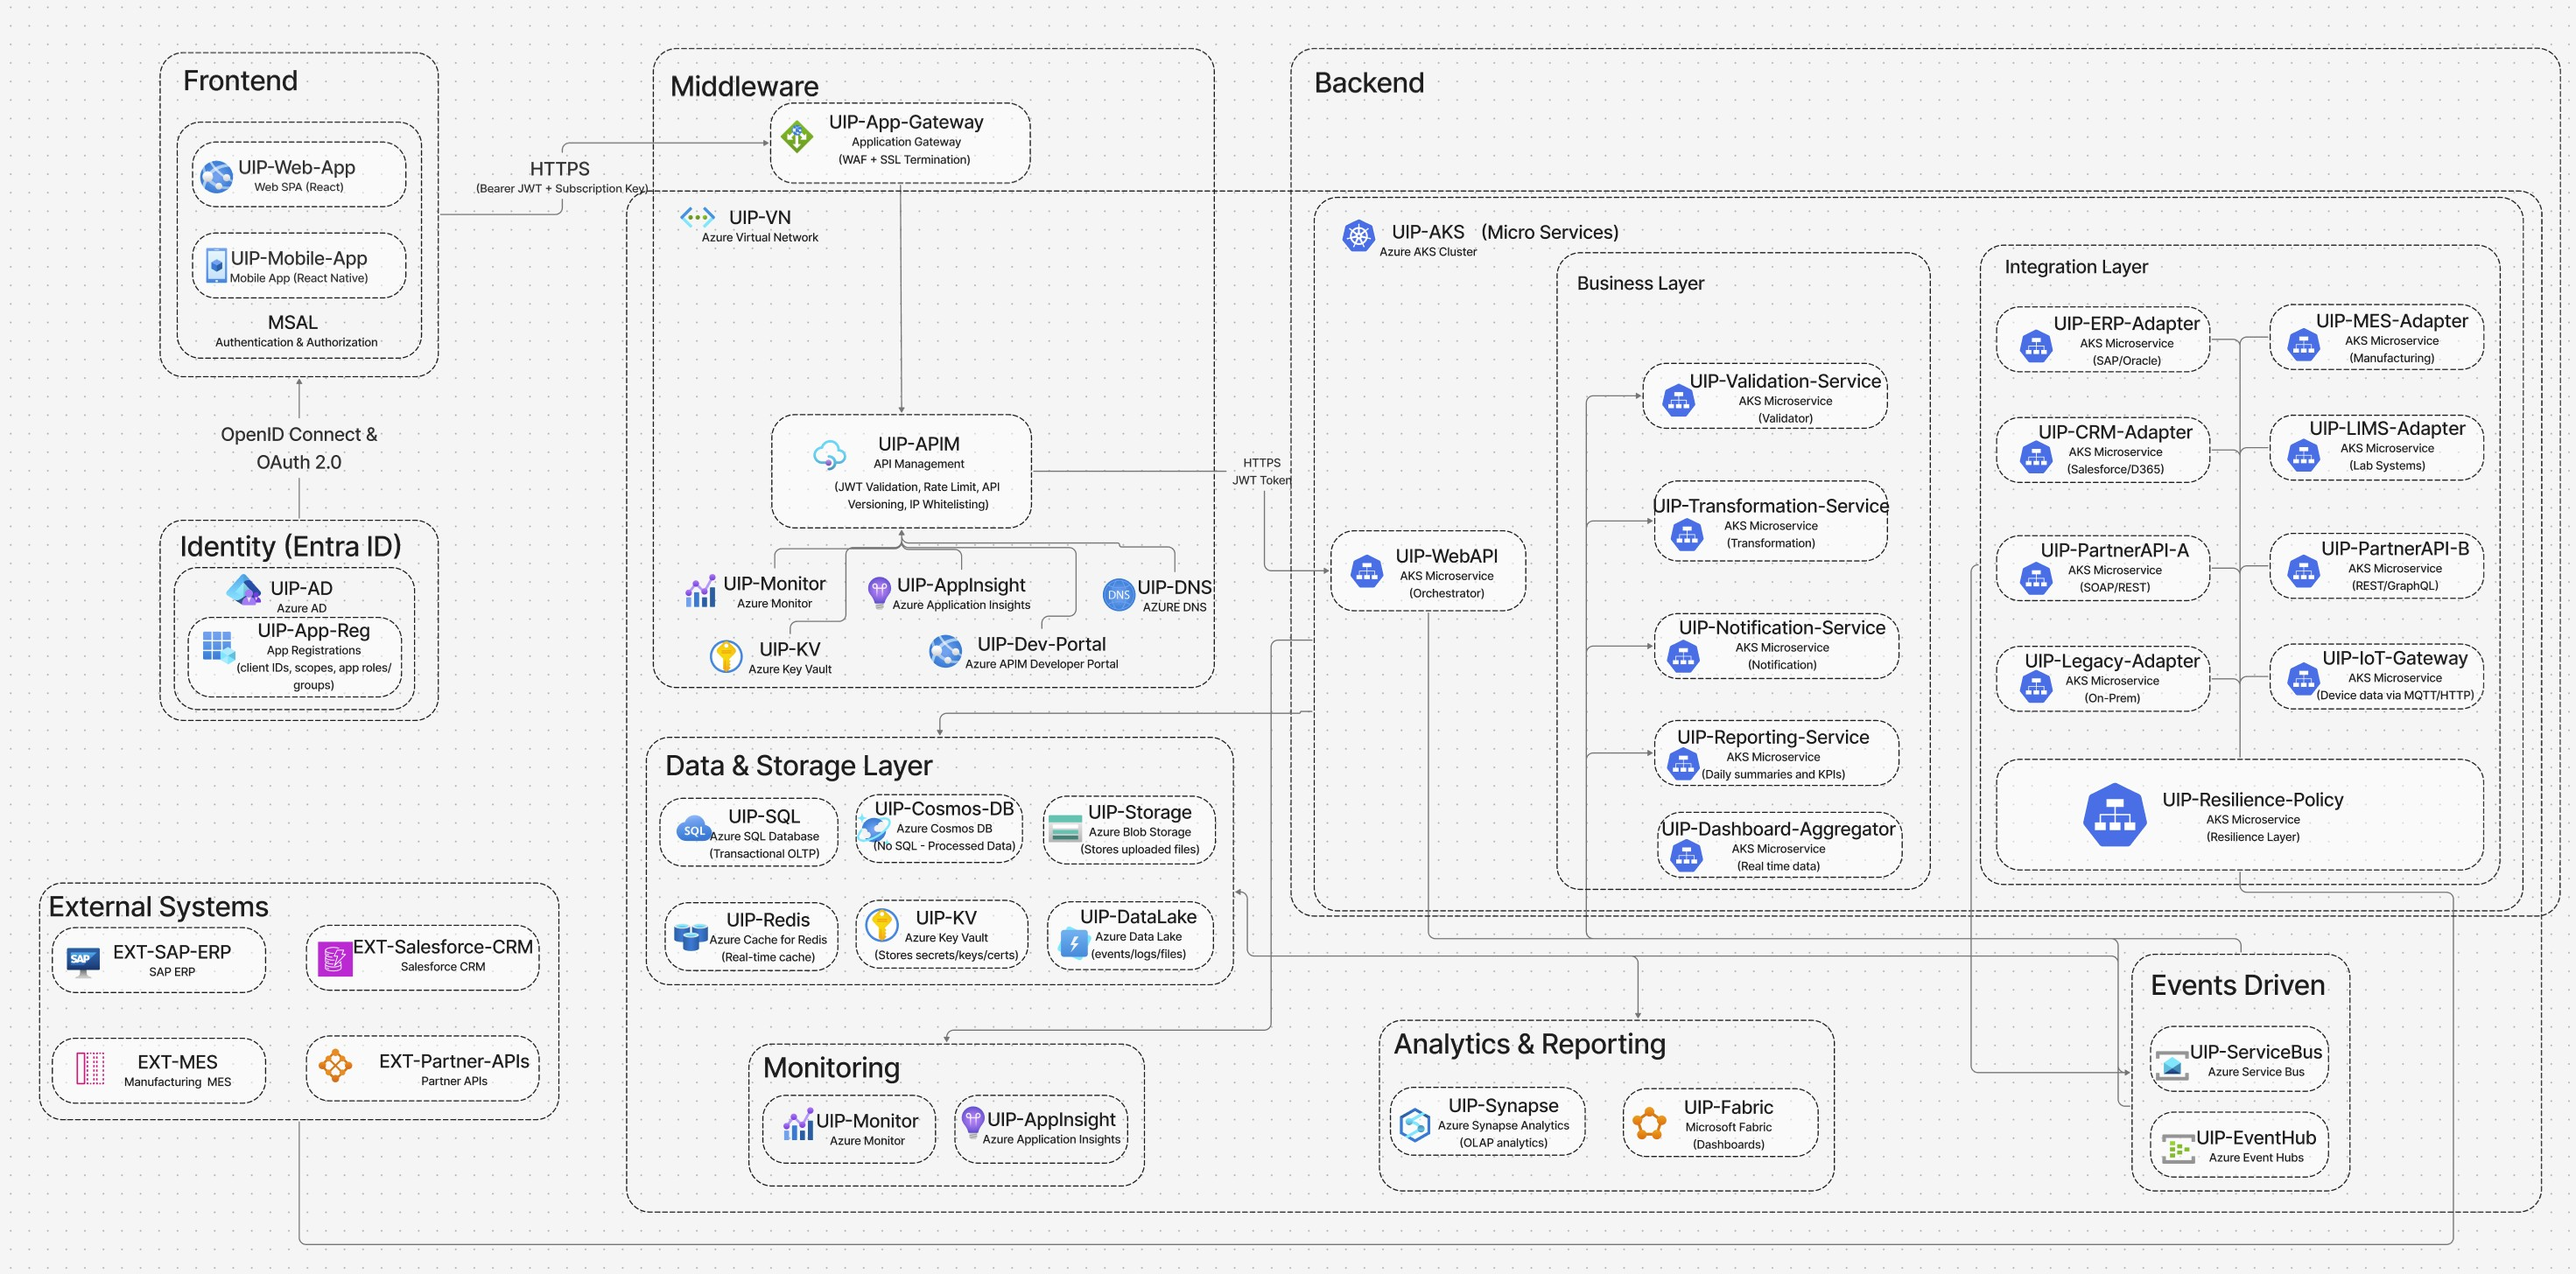
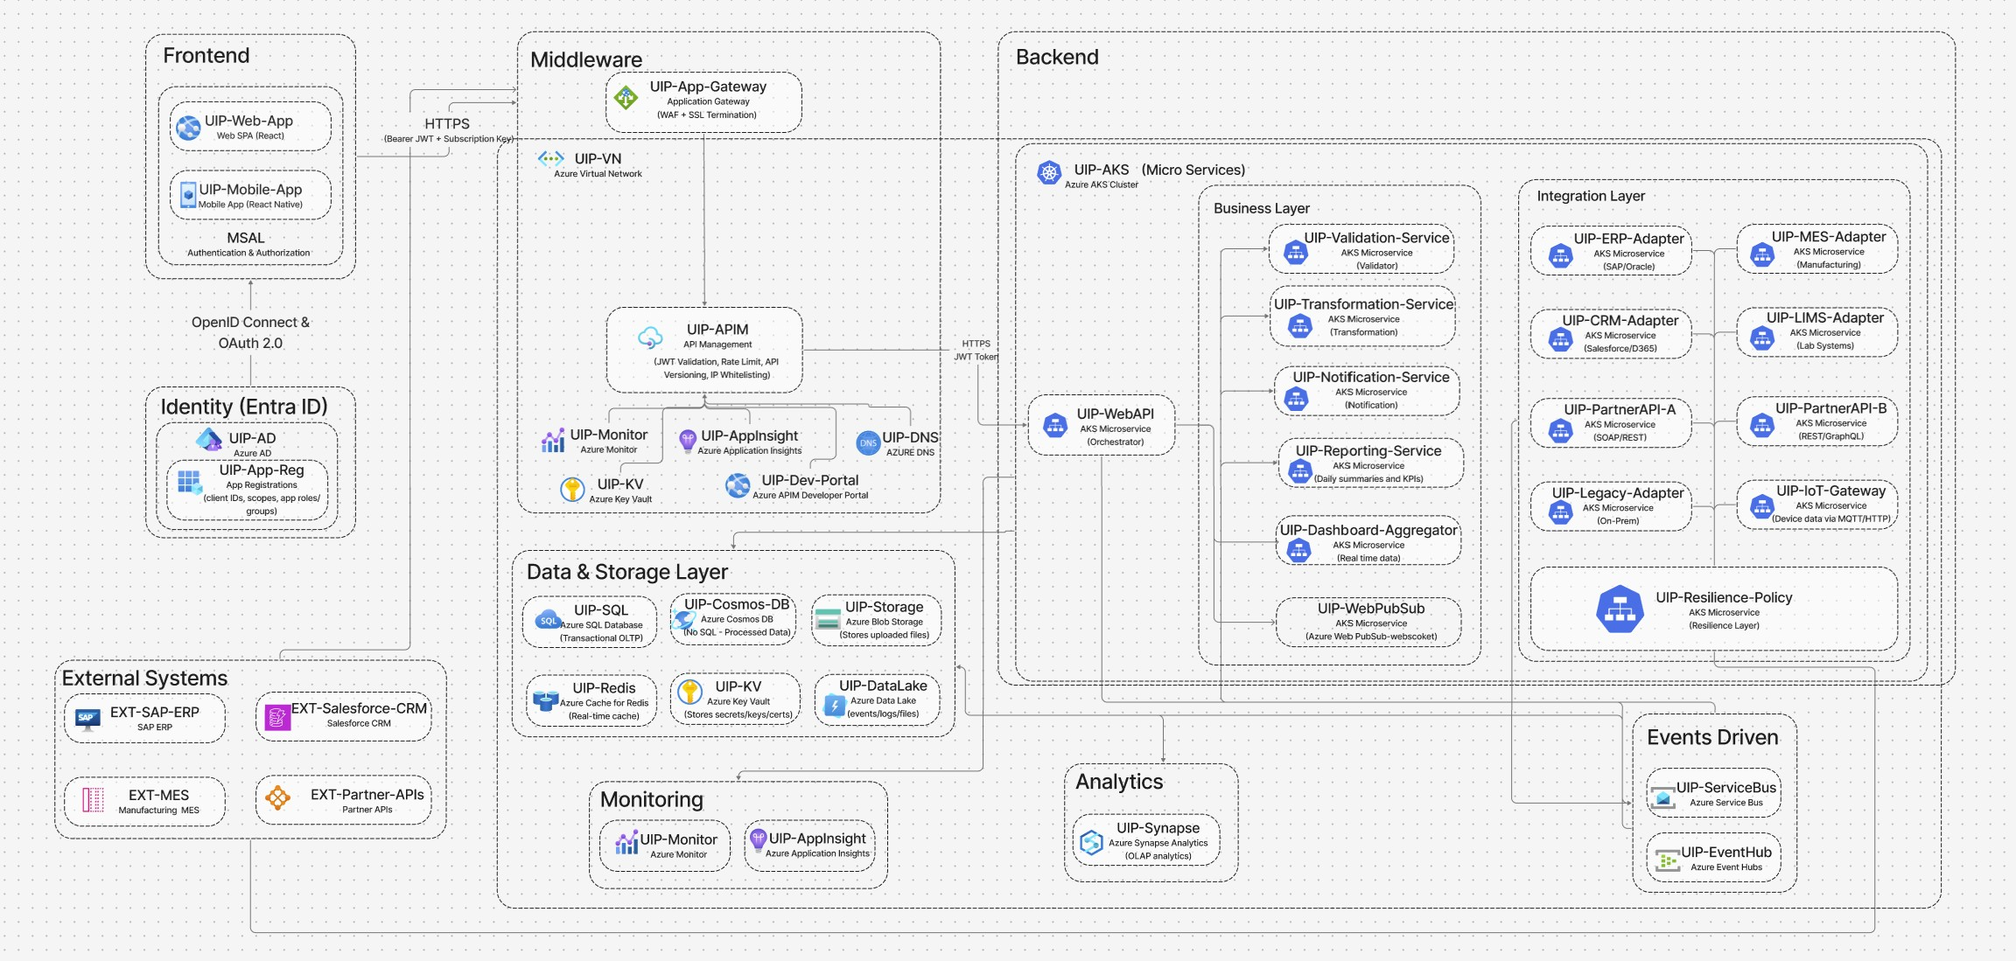
Refactor architecture documentation to enhance clarity and detail
- Updated `ARCHITECTURE_DEEP_DIVE.md` to improve flow descriptions and add real-time feedback scenarios.
- Changed color coding in sequence diagrams for better visual distinction.
- Revised `README.md` to emphasize architectural principles and reorganize content for better accessibility.
- Updated `uip-architecture-design.jpg` to reflect recent changes in architecture.

diff --git a/DELIVERABLES.md b/DELIVERABLES.md
@@ -1,0 +1,51 @@
+# UIP Architecture Deliverables
+
+## 1. Architectural Diagram
+![UIP Architecture Design](uip-architecture-design.jpg)
+
+## 2. Architecture Design Explanation
+
+### Overview
+The Unified Integration Platform (UIP) is architected as a cloud-native solution on **Microsoft Azure**, utilizing a microservices architecture hosted on **Azure Kubernetes Service (AKS)**. This design provides the necessary agility, scalability, and isolation to serve both Web and Mobile frontends while robustly integrating with 10–15 diverse external enterprise systems.
+
+### Key Design Decisions
+
+1.  **Microservices on AKS**: We selected AKS as the core compute platform. This allows us to containerize individual integration adapters and business services, enabling granular scaling. For instance, the `UIP-Transformation-Service` can be scaled up independently during high-volume file ingestion without affecting the `UIP-CRM-Adapter`.
+2.  **Gateway Offloading**: By placing **Azure Application Gateway** (WAF) and **Azure API Management (APIM)** in front of the cluster, we offload cross-cutting concerns like SSL termination, rate limiting, and authentication validation. This keeps the backend services focused on business logic.
+3.  **Polyglot Persistence**: The architecture employs the "right store for the right job":
+    *   **Azure SQL**: For relational, transactional business data requiring strict ACID compliance.
+    *   **Cosmos DB**: For flexible, high-volume storage of processed integration data and audit logs.
+    *   **Redis**: For high-speed caching to support low-latency dashboard reads.
+    *   **Data Lake**: For cost-effective archival of raw events and files.
+
+### Addressing Core Requirements
+
+#### Third-Party System Integration & Resilience
+Integrating with 10–15 external systems (SAP, Salesforce, MES, Partners) creates a high risk of cascading failures. We mitigate this through:
+*   **Adapter Pattern**: Dedicated microservices (e.g., `UIP-ERP-Adapter`) encapsulate the specific logic, protocols (SOAP, REST, MQTT), and authentication for each external system.
+*   **Resilience Policies**: A centralized `UIP-Resilience-Policy` mechanism enforces **Circuit Breakers** and **Retry with Exponential Backoff**. If "Partner-API-A" becomes unresponsive, its circuit breaker opens, failing fast locally rather than hanging threads and exhausting connection pools.
+*   **Asynchronous Buffering**: **Azure Service Bus** acts as a shock absorber. Bursts of integration requests are queued and processed by consumers at a sustainable rate, protecting downstream legacy systems from being overwhelmed.
+
+#### Scalability, Security, and Availability
+*   **Scalability**: The architecture scales on multiple dimensions. **AKS** handles compute scaling via Horizontal Pod Autoscaling (HPA). **Event Hubs** partitions data streams to handle massive throughput for ingestion. **Cosmos DB** provides practically unlimited storage throughput.
+*   **Security (Zero Trust)**:
+    *   **Identity**: **Entra ID (Azure AD)** is the single source of truth, using OIDC/OAuth 2.0 for all user and service-to-service authentication.
+    *   **Secrets**: No sensitive data is stored in code. **Azure Key Vault** manages connection strings and API keys, injected into pods at runtime.
+    *   **Network**: **Azure VNet** isolates backend resources. Public access is strictly controlled via the Application Gateway, with WAF protecting against OWASP Top 10 vulnerabilities.
+*   **Availability**: High availability is achieved by deploying AKS and critical data services (SQL, Cosmos) across **Azure Availability Zones**. Stateless services allow for instant recovery on healthy nodes if a failure occurs.
+
+#### Real-Time vs. Daily Reporting
+*   **Real-Time Dashboard**: We avoid database polling. The `UIP-WebPubSub` service maintains WebSocket connections to clients. Updates flow from the `UIP-Dashboard-Aggregator` (reading from Redis/Event Hubs) directly to the frontend, ensuring live visibility into integration status.
+*   **Daily Reporting**: We employ a **CQRS-like pattern** where reporting is separated from operations. Operational data is replicated to **Azure Data Lake** and **Synapse Analytics**. Complex queries for daily summaries and KPIs run against this dedicated analytics layer, ensuring that heavy reporting jobs never degrade the performance of the live transactional system.
+
+### Major Trade-offs Considered
+
+**1. Microservices Complexity vs. Monolithic Simplicity**
+*   *Decision*: We chose a distributed microservices architecture over a simpler monolithic App Service.
+*   *Trade-off*: This significantly increases operational complexity (requires distributed tracing, container management, more complex CI/CD).
+*   *Justification*: The requirement to integrate with 15+ external systems with different failure modes and scaling profiles made a monolith too risky. A memory leak in a legacy XML parser for one partner integration shouldn't crash the entire user dashboard. Isolation was prioritized over simplicity.
+
+**2. Eventual Consistency for Dashboards**
+*   *Decision*: The dashboard data flow relies on asynchronous events (Event Hubs -> Aggregator -> PubSub).
+*   *Trade-off*: The dashboard may lag behind the source of truth by a few seconds (eventual consistency) rather than being instantly consistent.
+*   *Justification*: Achieving strict strong consistency across distributed systems would require distributed transactions (2PC), which kill performance and availability. For an operational dashboard, "near real-time" is an acceptable trade-off for high system throughput and responsiveness.

diff --git a/ARCHITECTURE_DEEP_DIVE.md b/ARCHITECTURE_DEEP_DIVE.md
@@ -133,7 +133,7 @@ sequenceDiagram
 
     Client->>WAF: HTTPS Request
     
-    rect rgb(255, 230, 230)
+    rect rgb(0, 0, 0)
         Note right of WAF: Security Edge
         WAF->>WAF: Decrypt & Inspect (OWASP)
         alt Malicious Payload
@@ -143,7 +143,7 @@ sequenceDiagram
 
     WAF->>APIM: Forward Request
     
-    rect rgb(230, 240, 255)
+    rect rgb(0, 0, 0)
         Note right of APIM: Policy Execution
         APIM->>APIM: Check Subscription Key
         APIM->>APIM: Validate JWT
@@ -543,25 +543,42 @@ We treat operations as a software problem, using data to drive decisions.
 
 ## 13. End-to-End Request Flow (Consolidated)
 
-To visualize how all layers work together, we differentiate between Synchronous (User-Facing) and Asynchronous (Background) flows.
+To visualize how all layers work together, we differentiate between **Synchronous** (Read), **Asynchronous** (Write/Process), and **Real-Time** (Feedback) flows.
 
 ### Scenario A: Synchronous (Get Dashboard Data)
 **Criticality:** High Latency Sensitivity.
 **Flow:**
-1.  **User** requests Dashboard.
-2.  **WAF** validates security.
-3.  **APIM** checks cache (Redis). Hit? Return.
-4.  **AKS API** calls **Cosmos DB** (Read Model).
-5.  **Response** sent back. **SQL** (Write Model) is NOT touched to ensure speed.
+1.  **User** requests the Dashboard.
+2.  **APIM** checks **Redis Cache** first.
+    *   *Hit?* Return data immediately (sub-millisecond).
+3.  **AKS API** (if cache miss) calls **Cosmos DB** (Read Model).
+    *   *Note:* It does **not** query the heavy Azure SQL (Transactional DB) to ensure speed.
+4.  **Response** is returned and cached in Redis.
 
-### Scenario B: Asynchronous (Submit Order / File)
-**Criticality:** High Reliability/Consistency.
+### Scenario B: Asynchronous (Submit Large File/Order)
+**Criticality:** High Reliability & Data Integrity.
 **Flow:**
-1.  **User** submits Order.
-2.  **AKS API** validates schema, saves "Pending" state to **SQL**, and ACKS user immediately ("Order Received").
-3.  **Service Bus** receives "OrderCreated" event.
-4.  **Worker** picks up event, calls **Inventory System** (SAP), updates **SQL** to "Confirmed", and updates **Cosmos** Read Model.
-5.  **Notification Service** emails user.
+1.  **Submission**: User uploads a file/order.
+2.  **Orchestrator**:
+    *   Validates schema.
+    *   Creates a **Job Record** in **Azure SQL** with status **`PENDING`**.
+    *   Publishes a command to **Service Bus**.
+    *   Returns `202 Accepted` with a `Job-ID` to the user.
+3.  **Processing**:
+    *   **Worker** picks up the message.
+    *   Updates Azure SQL status to **`IN_PROGRESS`**.
+    *   Calls **Integration Adapter** (e.g., SAP).
+4.  **Completion**:
+    *   Worker updates Azure SQL status to **`COMPLETED`**.
+    *   Saves the final payload to **Cosmos DB** (for history).
+
+### Scenario C: Real-Time Feedback (The "Push")
+**Criticality:** User Experience (UX).
+**Flow:**
+1.  **Event**: When the Worker completes the job (Scenario B), it publishes a `JobCompleted` event.
+2.  **WebPubSub Service**: Receives this event.
+3.  **Push**: Instantly pushes a WebSocket message (`{"jobId": 123, "status": "Success"}`) to the User's active browser session.
+4.  **UI Update**: The Dashboard shows a green checkmark without the user refreshing the page.
 
 ### Consolidated Sequence Diagram
 
@@ -569,38 +586,37 @@ To visualize how all layers work together, we differentiate between Synchronous 
 sequenceDiagram
     participant User
     participant Edge as WAF/APIM
-    participant API as AKS API
-    participant Cache as Redis
+    participant API as Orchestrator
+    participant SQL as Azure SQL (State)
     participant Bus as Service Bus
-    participant Worker as Background Worker
-    participant DB as SQL/Cosmos
+    participant Worker as Backend Worker
+    participant PubSub as WebPubSub
 
-    rect rgb(240, 255, 240)
+    rect rgb(0, 0, 0)
         Note left of User: Sync Flow (Read)
         User->>Edge: GET /dashboard
-        Edge->>Cache: Check Cache
-        alt Hit
-            Cache-->>Edge: Data
-        else Miss
-            Edge->>API: Call Service
-            API->>DB: Query Read Model (Cosmos)
-            DB-->>API: Data
-            API-->>Edge: Data
-        end
+        Edge->>API: Fetch Data
+        API->>SQL: Query Status (Lightweight)
+        API-->>Edge: Return JSON
         Edge-->>User: 200 OK
     end
 
-    rect rgb(255, 245, 230)
+    rect rgb(0, 0, 0)
         Note left of User: Async Flow (Write)
-        User->>Edge: POST /order
-        Edge->>API: Validate & Accept
-        API->>Bus: Publish "OrderCreated"
-        API-->>User: 202 Accepted
+        User->>Edge: POST /upload
+        Edge->>API: Submit Job
+        API->>SQL: INSERT Job (Status: PENDING)
+        API->>Bus: Publish "JobCreated"
+        API-->>User: 202 Accepted (Job-ID)
         
-        par Background
-            Bus->>Worker: Consume Event
-            Worker->>DB: Update SQL (OLTP)
-            Worker->>DB: Update Cosmos (Read)
+        par Background Processing
+            Bus->>Worker: Consume Message
+            Worker->>SQL: Update Status: IN_PROGRESS
+            Worker->>Worker: Execute Business Logic / External Call
+            Worker->>SQL: Update Status: COMPLETED
+            
+            Worker->>PubSub: Publish "JobDone"
+            PubSub-->>User: WebSocket Push (Refresh UI)
         end
     end
 ```

diff --git a/README.md b/README.md
@@ -3,18 +3,23 @@
 This repo captures a production-grade reference architecture for a Unified Integration Platform (UIP) on Microsoft Azure. It is designed to ingest data and events from 10-15 heterogeneous external systems, expose secure APIs to web/mobile clients, and deliver reliable, observable, and resilient integration workflows at scale.
 
 The design emphasizes:
-- Security-first edge and identity controls (Entra ID, WAF, APIM)
-- Resilient microservices on AKS with clear data model boundaries
-- Event-driven workflows for decoupling and scale (Service Bus + Event Hubs)
-- OLTP/OLAP separation with daily KPI reporting
-- Clear operational runbooks and failure handling (DLQ, replay, retries)
+- **Security-first**: Edge and identity controls (Entra ID, WAF, APIM) with Zero Trust principles.
+- **Resilience**: Microservices on AKS with Circuit Breakers, Retries, and asynchronous decoupling.
+- **Event-Driven**: High-scale workflows using Service Bus & Event Hubs with real-time feedback (WebPubSub).
+- **Polyglot Persistence**: Strategic use of Azure SQL (Transactional State), Cosmos DB (Documents), and Data Lake (Archives).
+- **Observability**: End-to-end tracing and separation of operational (OLTP) vs. analytical (OLAP) reporting.
 
 ## Repository Contents
-- `ASSIGNMENT.md`: **Start Here** - Contains the full problem statement, system capabilities, NFRs, and deliverable requirements for the Senior Developer Take-Home Assignment.
-- `ARCHITECTURE_DEEP_DIVE.md`: **Technical Specification** - The comprehensive low-level design document. It includes:
-  - Detailed swimlane diagrams for authentication, request processing, and saga patterns.
-  - Deep dives into Frontend (MSAL/OIDC), Middleware (WAF/APIM), and Backend (AKS/Eventing) implementation.
-  - Protocol specifics, resilience policies (Polly), and analytics pipelines.
-- `README.md`: **Executive Summary** - High-level system overview, architecture principles, and quick reference.
-- [Figma Architecture Design](https://www.figma.com/board/zi7c9qPP2Wsni7kXYxt8nF/UIP-Architecture-Design?node-id=0-1&p=f&t=04HKvLfQyQe0EL8p-0) 
 
+### 1. Core Deliverables
+- **`DELIVERABLES.md`**: **The Submission Document** - A concise 2-page summary explaining the architectural decisions, trade-offs, and how the design addresses the core assignment requirements (Resilience, Scalability, Reporting).
+- **`uip-architecture-design.jpg`**: **Visual Diagram** - The high-level architectural view showing the 7 core layers and their interactions.
+
+### 2. Documentation
+- **`ASSIGNMENT.md`**: **Requirements** - The original problem statement, system capabilities, and NFRs.
+- **`ARCHITECTURE_DEEP_DIVE.md`**: **Technical Specification** - A comprehensive low-level design document (LLD). It includes:
+  - **Swimlane Diagrams**: Visualizing Authentication (OIDC), Middleware logic, and Analytics pipelines.
+  - **End-to-End Flows**: Detailed consolidated flows for Synchronous (Read), Asynchronous (Write), and Real-Time (WebPubSub) scenarios.
+  - **Implementation Details**: Deep dives into Frontend (MSAL), AKS Platform Engineering, and Resilience Policies (Polly).
+
+- [Figma Architecture Design](https://www.figma.com/board/zi7c9qPP2Wsni7kXYxt8nF/UIP-Architecture-Design?node-id=0-1&p=f&t=04HKvLfQyQe0EL8p-0)
